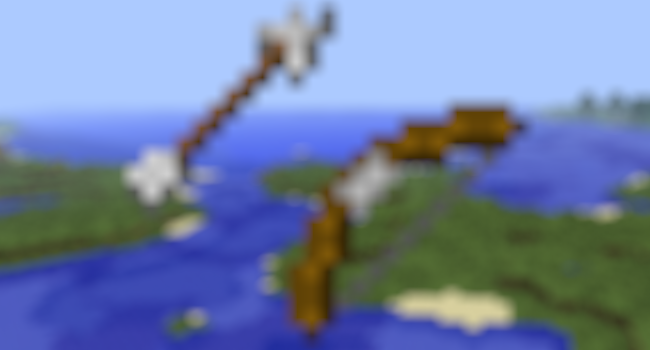
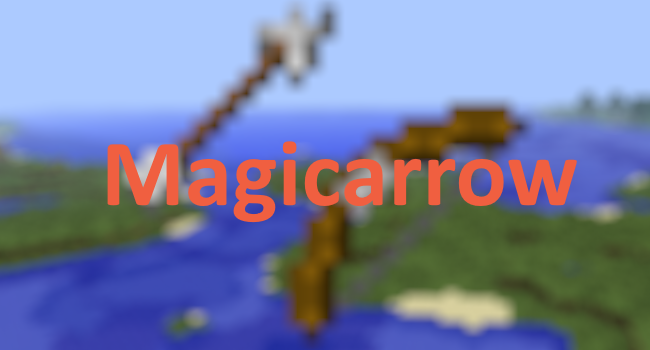
new portfolio image and typo fix

Changed region(s): [[0.1538, 0.4, 0.8923, 0.6571]]

diff --git a/resume.html b/resume.html
@@ -138,7 +138,7 @@
 				<div class="service-box">
 					<i class="fa fa-4x fa-gamepad text-primary sr-icons"></i>
 					<h3>DS4 Sampler</h3>
-					<p class="text-muted">VST that transforms any game game pad into a multipurpose synthesizer made on MAX MSP</p>
+					<p class="text-muted">VST that transforms any game-pad into a multipurpose synthesizer made on MAX MSP</p>
 					<br>
 					<a href="portfolio.html" class="page-scroll btn btn-primary btn-xl sr-button">More info</a>
 				</div>
